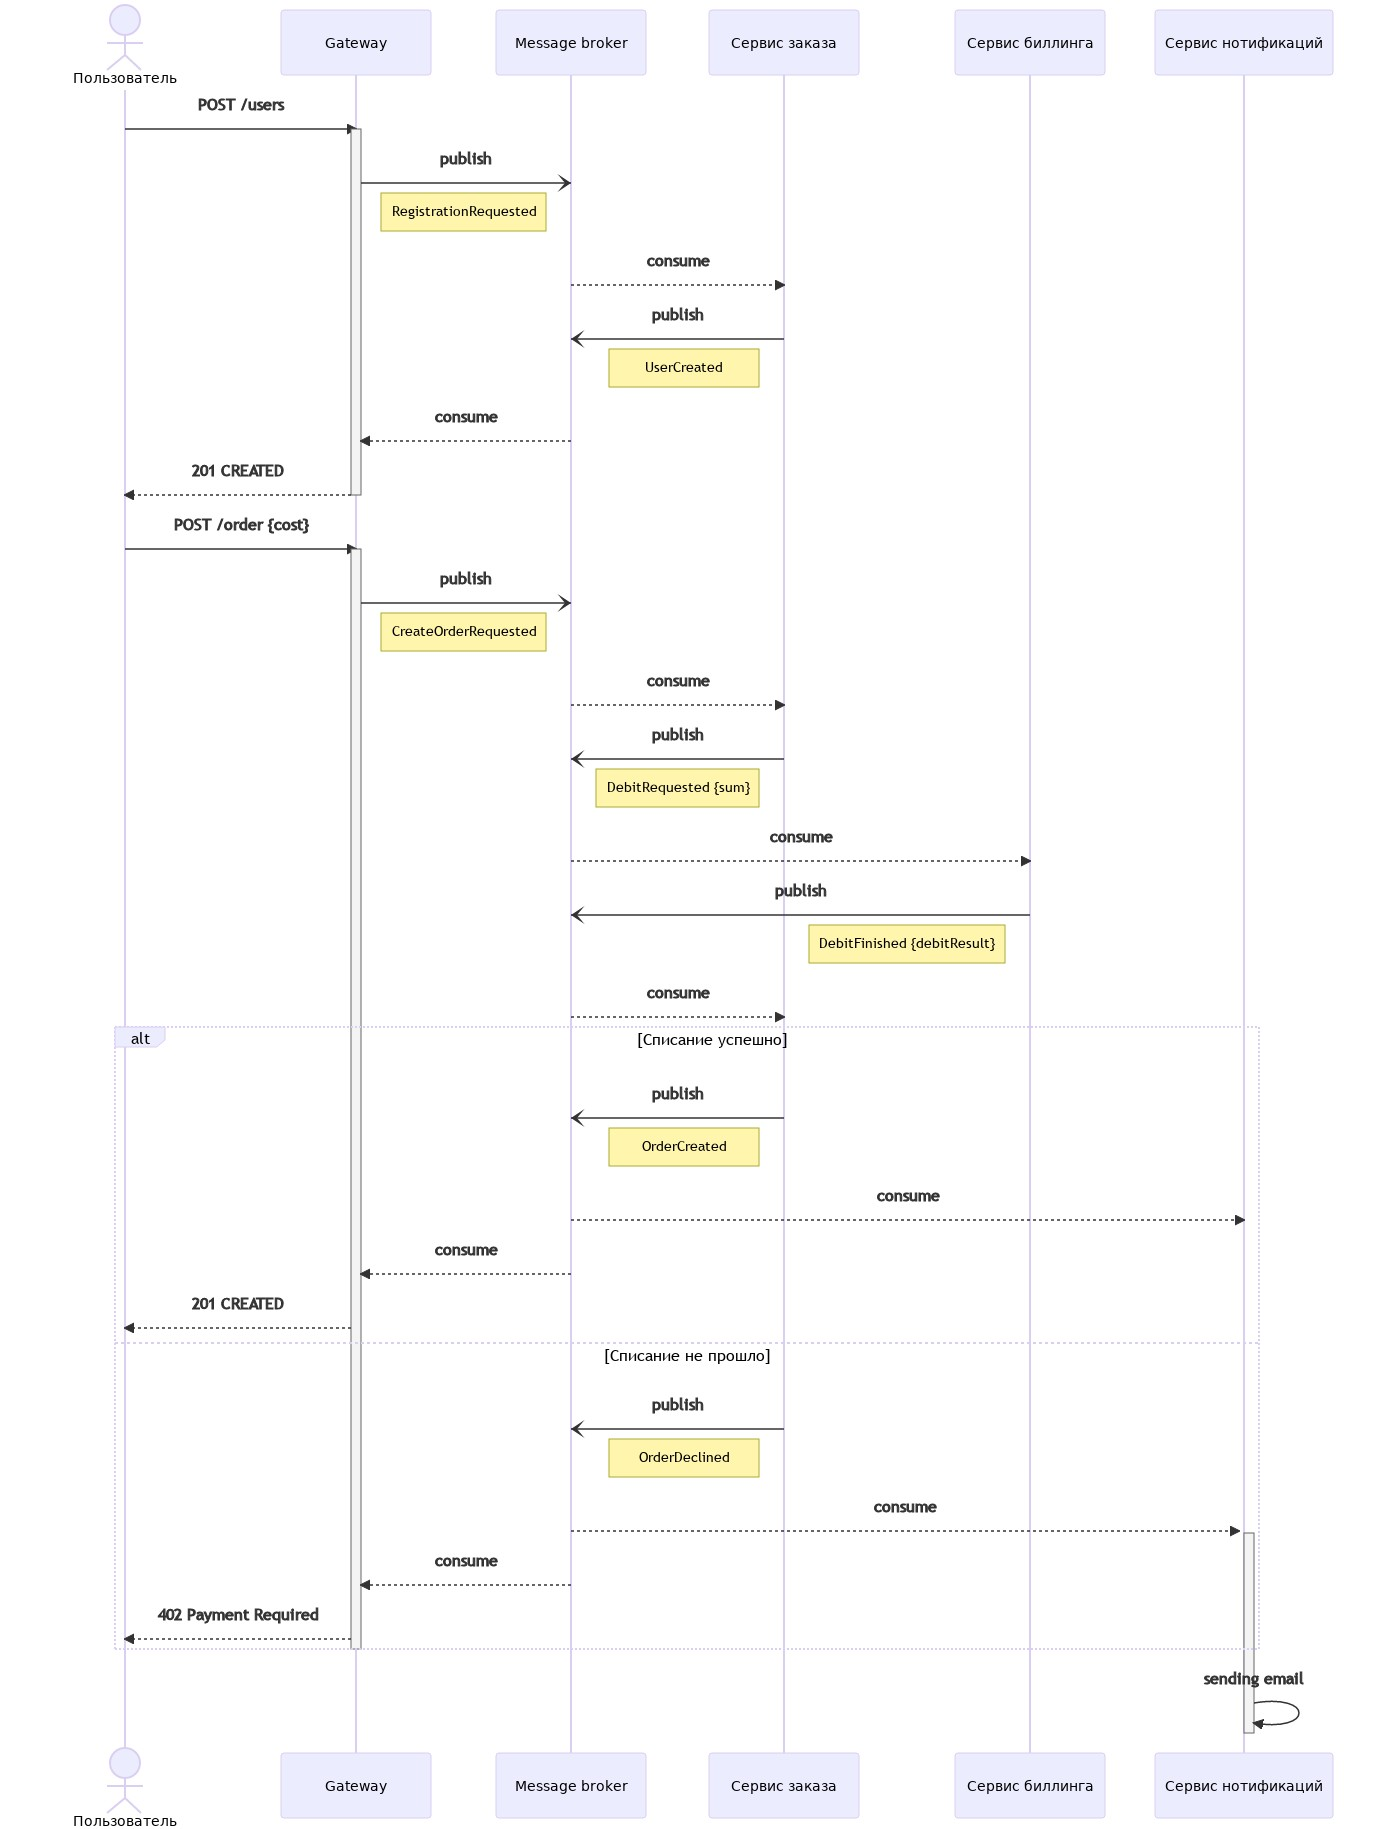
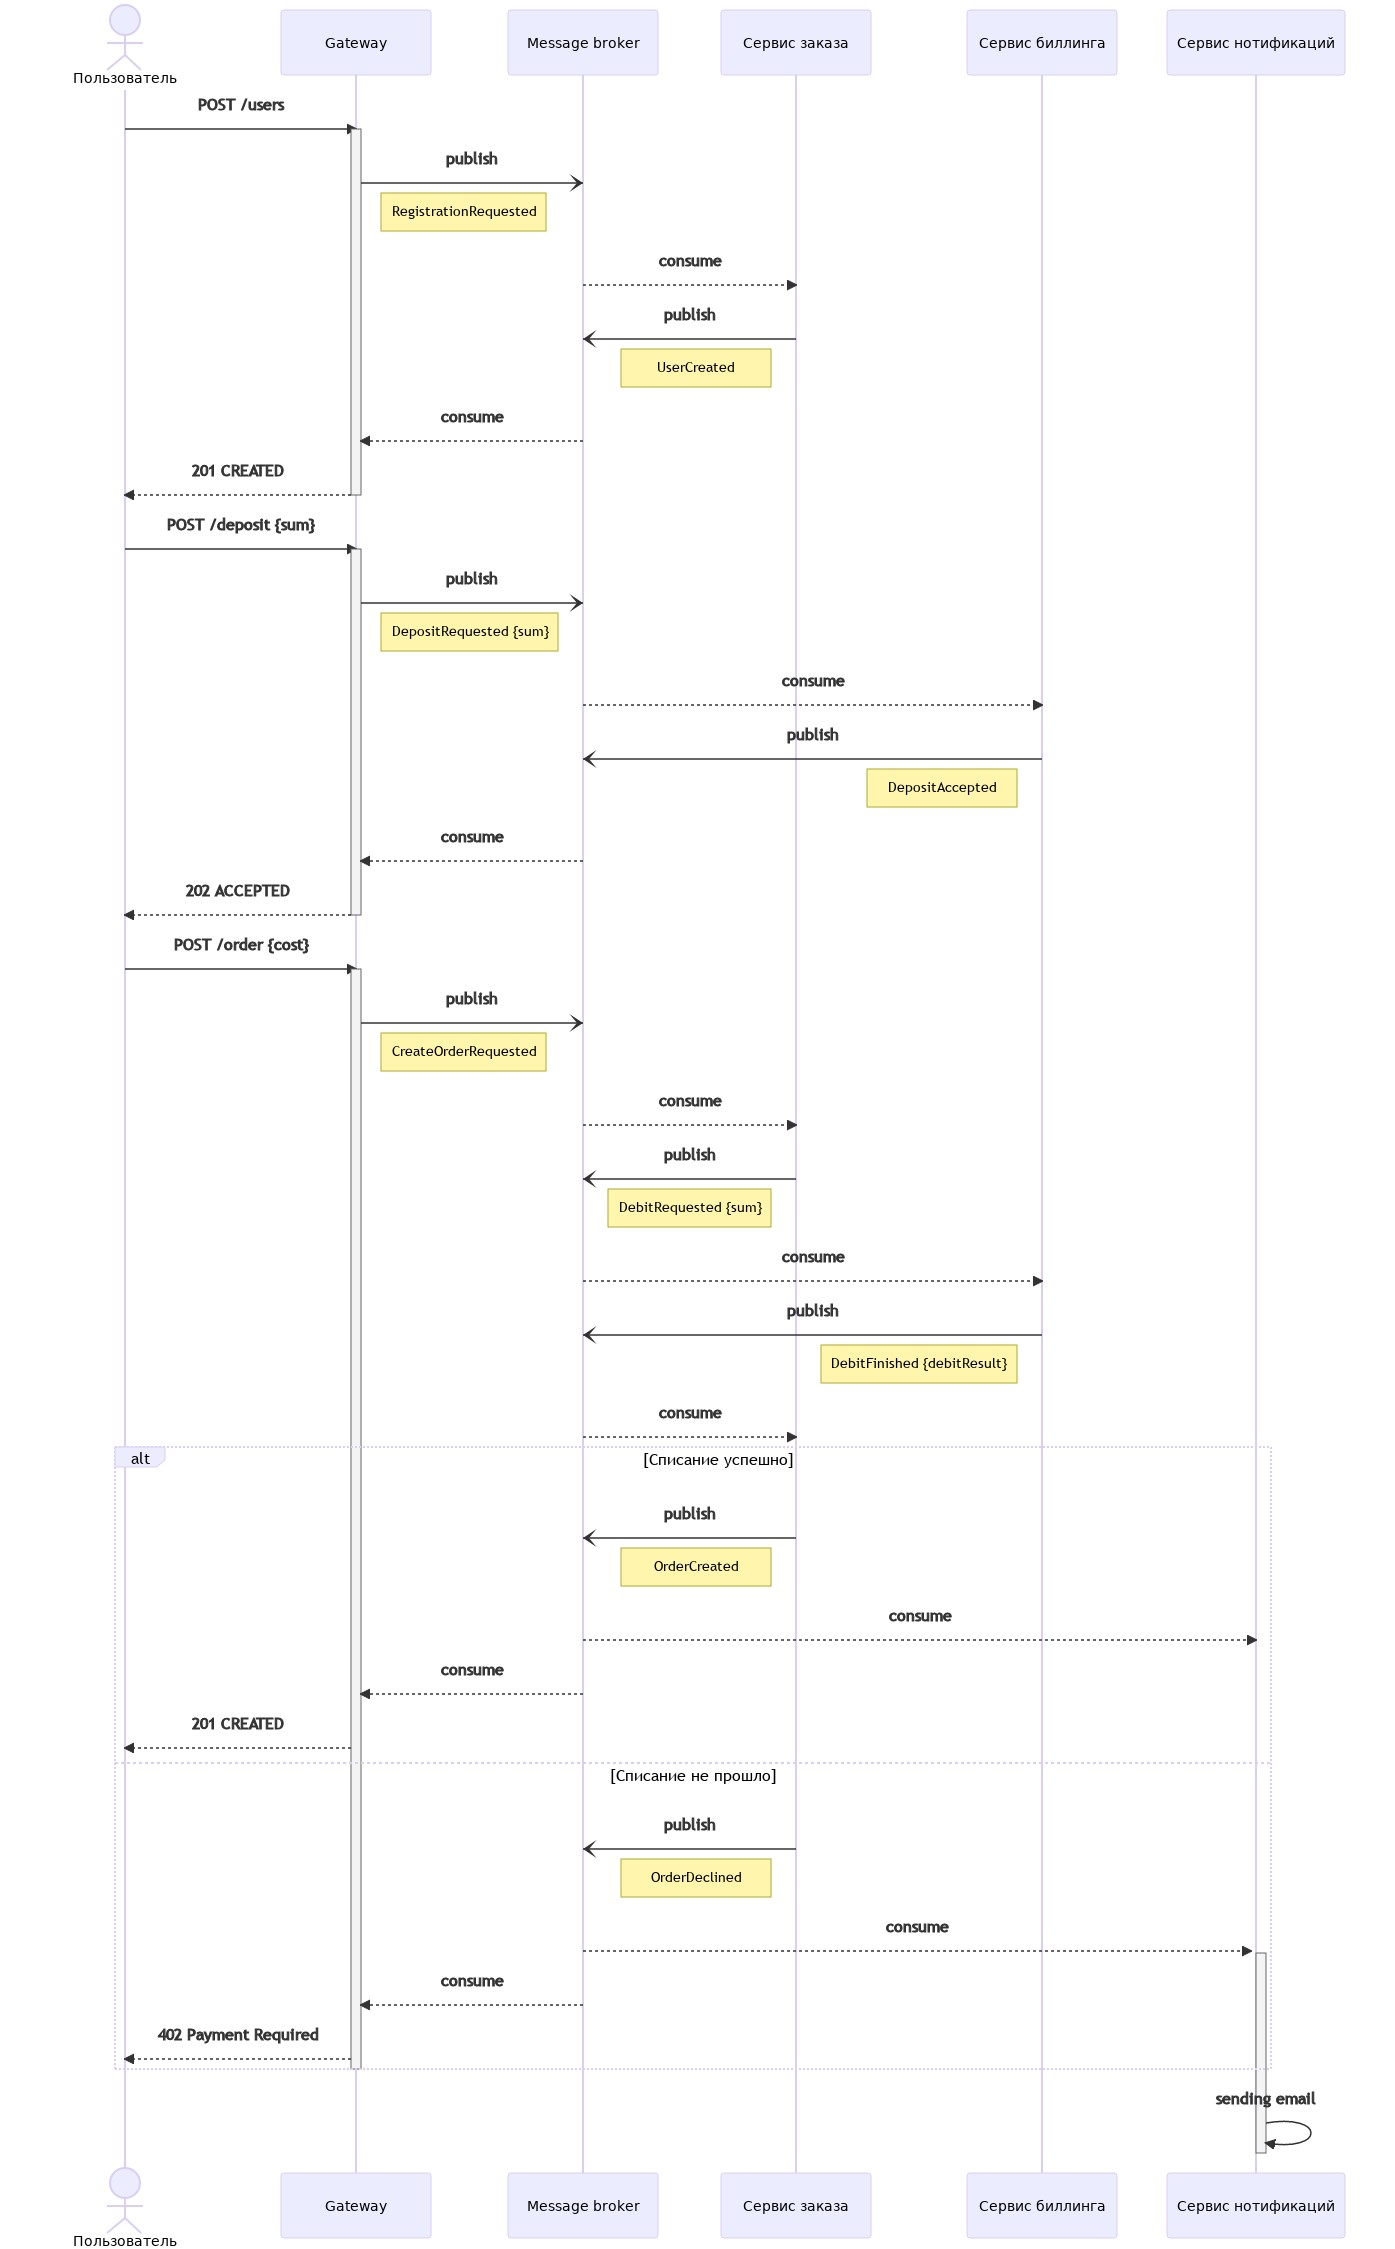
HW#7 Sequence diagrams - added Deposit function

diff --git a/homework7/api-spec/event-collab/collab-sequence.md b/homework7/api-spec/event-collab/collab-sequence.md
@@ -19,6 +19,17 @@ User->>+Gateway: POST /users
     Message broker-->>Gateway: consume
 Gateway-->>-User: 201 CREATED
 
+User->>+Gateway: POST /deposit {sum}
+    Gateway-)Message broker: publish
+    Note right of Gateway: DepositRequested {sum}
+
+    Message broker-->>BillingService: consume
+    BillingService-)Message broker: publish
+    Note left of BillingService: DepositAccepted
+
+    Message broker-->>Gateway: consume
+Gateway-->>-User: 202 ACCEPTED
+
 User->>+Gateway: POST /order {cost}
     Gateway-)Message broker: publish
     Note right of Gateway: CreateOrderRequested

diff --git a/homework7/api-spec/rest/rest-sequence.md b/homework7/api-spec/rest/rest-sequence.md
@@ -14,6 +14,10 @@ User->>+OrderService: POST /user
     BillingService-->>-OrderService: 201 CREATED {accountId}
 OrderService-->>-User: 201 CREATED
 
+User->>+BillingService: POST /deposit {sum}
+    Note right of User: взнос денег
+BillingService-->>-User: 202 ACCEPTED
+
 User->>+OrderService: POST /order {cost}
     Note right of User: создание заказа
     

diff --git a/homework7/api-spec/event-notifications/notif-sequence.md b/homework7/api-spec/event-notifications/notif-sequence.md
@@ -15,6 +15,10 @@ User->>+OrderService: POST /user
     BillingService-->>-OrderService: 201 CREATED {accountId}
 OrderService-->>-User: 201 CREATED
 
+User->>+BillingService: POST /deposit {sum}
+    Note right of User: взнос денег
+BillingService-->>-User: 202 ACCEPTED
+
 User->>+OrderService: POST /order {cost}
     Note right of User: создание заказа
 
